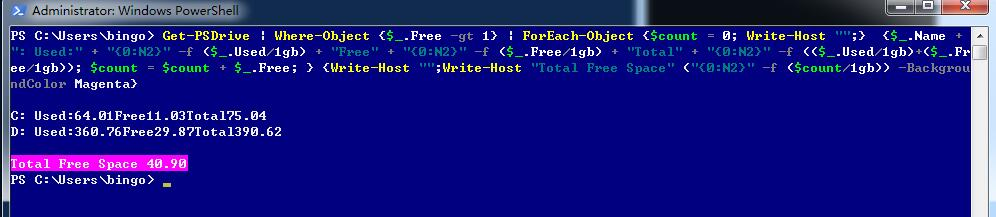
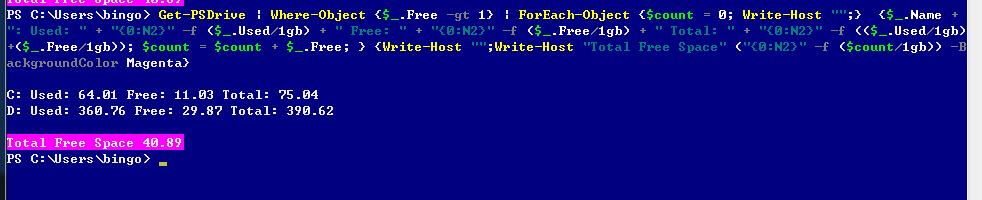
no message

diff --git a/01-powershell_常用命令.md b/01-powershell_常用命令.md
@@ -91,10 +91,10 @@ Get-PSDrive | Where-Object {$_.Free -gt 1} | ForEach-Object {Write-Host "Free Sp
 ![image](./static/get-psdrive05.jpg)
 
 ```powershell
-Get-PSDrive | Where-Object {$_.Free -gt 1} | ForEach-Object {$count = 0; Write-Host "";}  {$_.Name +
-": Used:" + "{0:N2}" -f ($_.Used/1gb) + "Free" + "{0:N2}" -f ($_.Free/1gb) + "Total" + "{0:N2}" -f (($_.Used/1gb)+($_.Fr
-ee/1gb)); $count = $count + $_.Free; } {Write-Host "";Write-Host "Total Free Space" ("{0:N2}" -f ($count/1gb)) -Backgrou
-ndColor Magenta}
+Get-PSDrive | Where-Object {$_.Free -gt 1} | ForEach-Object {$count = 0; Write-Host "";}  {$_.Name
+": Used: " + "{0:N2}" -f ($_.Used/1gb) + " Free: " + "{0:N2}" -f ($_.Free/1gb) + " Total: " + "{0:N2}" -f (($_.Used/1g
++($_.Free/1gb)); $count = $count + $_.Free; } {Write-Host "";Write-Host "Total Free Space" ("{0:N2}" -f ($count/1gb))
+ackgroundColor Magenta}
 ```
 ![image](./static/get-psdrive06.jpg)
 
